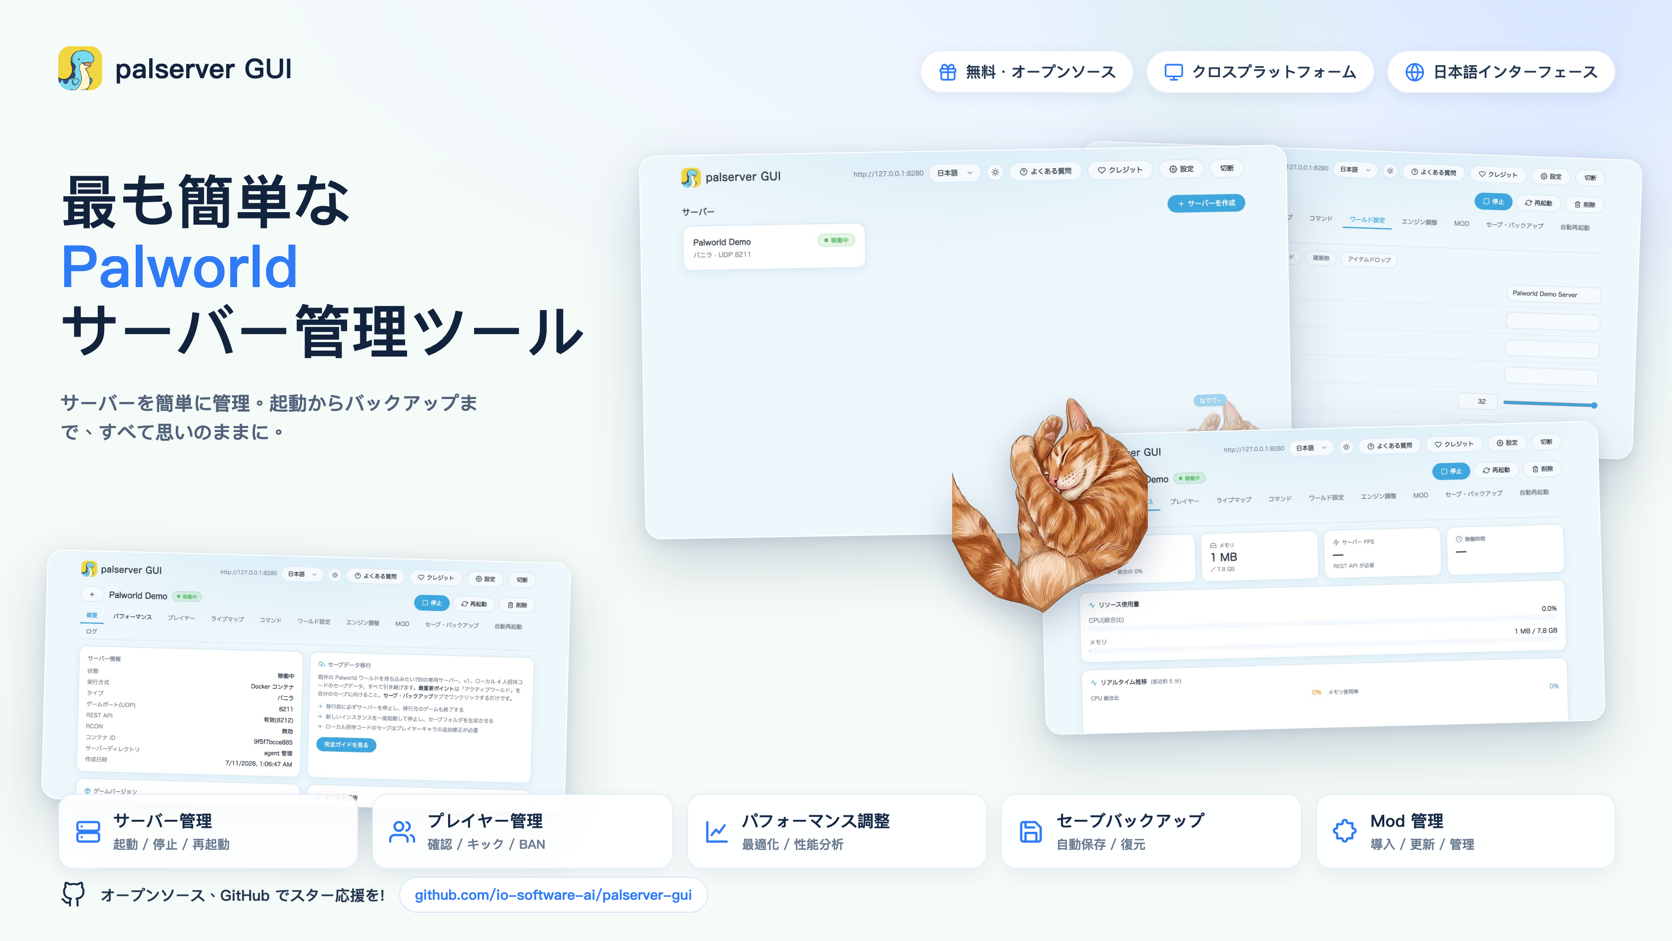
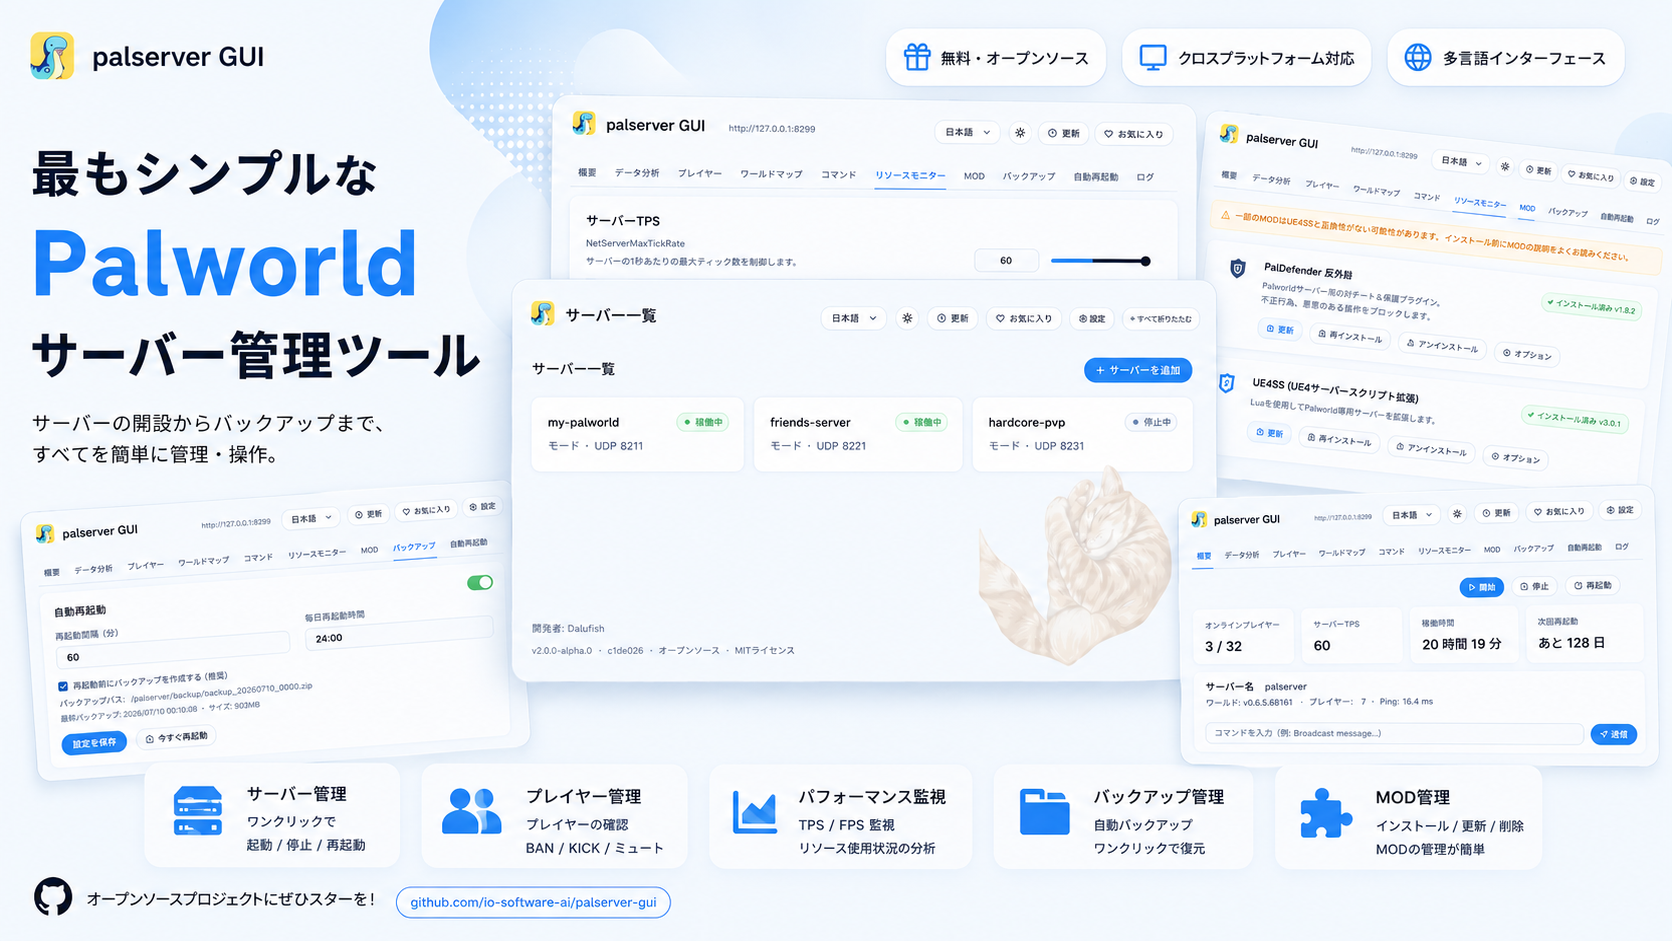
feat(website): hero uses the polished content.png composites (zh/en/ja)
Point the hero shot back at content.png and replace all three with the
hand-designed high-res versions (zh restored to the original 1.9MB; en/ja
redone to match).

diff --git a/website/components/Hero.tsx b/website/components/Hero.tsx
@@ -36,7 +36,7 @@ export default function Hero({ d, lang }: { d: Dictionary['hero']; lang: Locale 
           ))}
         </div>
         <div className="hero-shot">
-          <Shot src={`/assets/${lang}/overview.jpg`} alt={d.shotAlt} label={d.shotLabel} width={1320} height={848} priority />
+          <Shot src={`/assets/${lang}/content.png`} alt={d.shotAlt} label={d.shotLabel} width={1320} height={848} priority />
         </div>
       </div>
     </header>